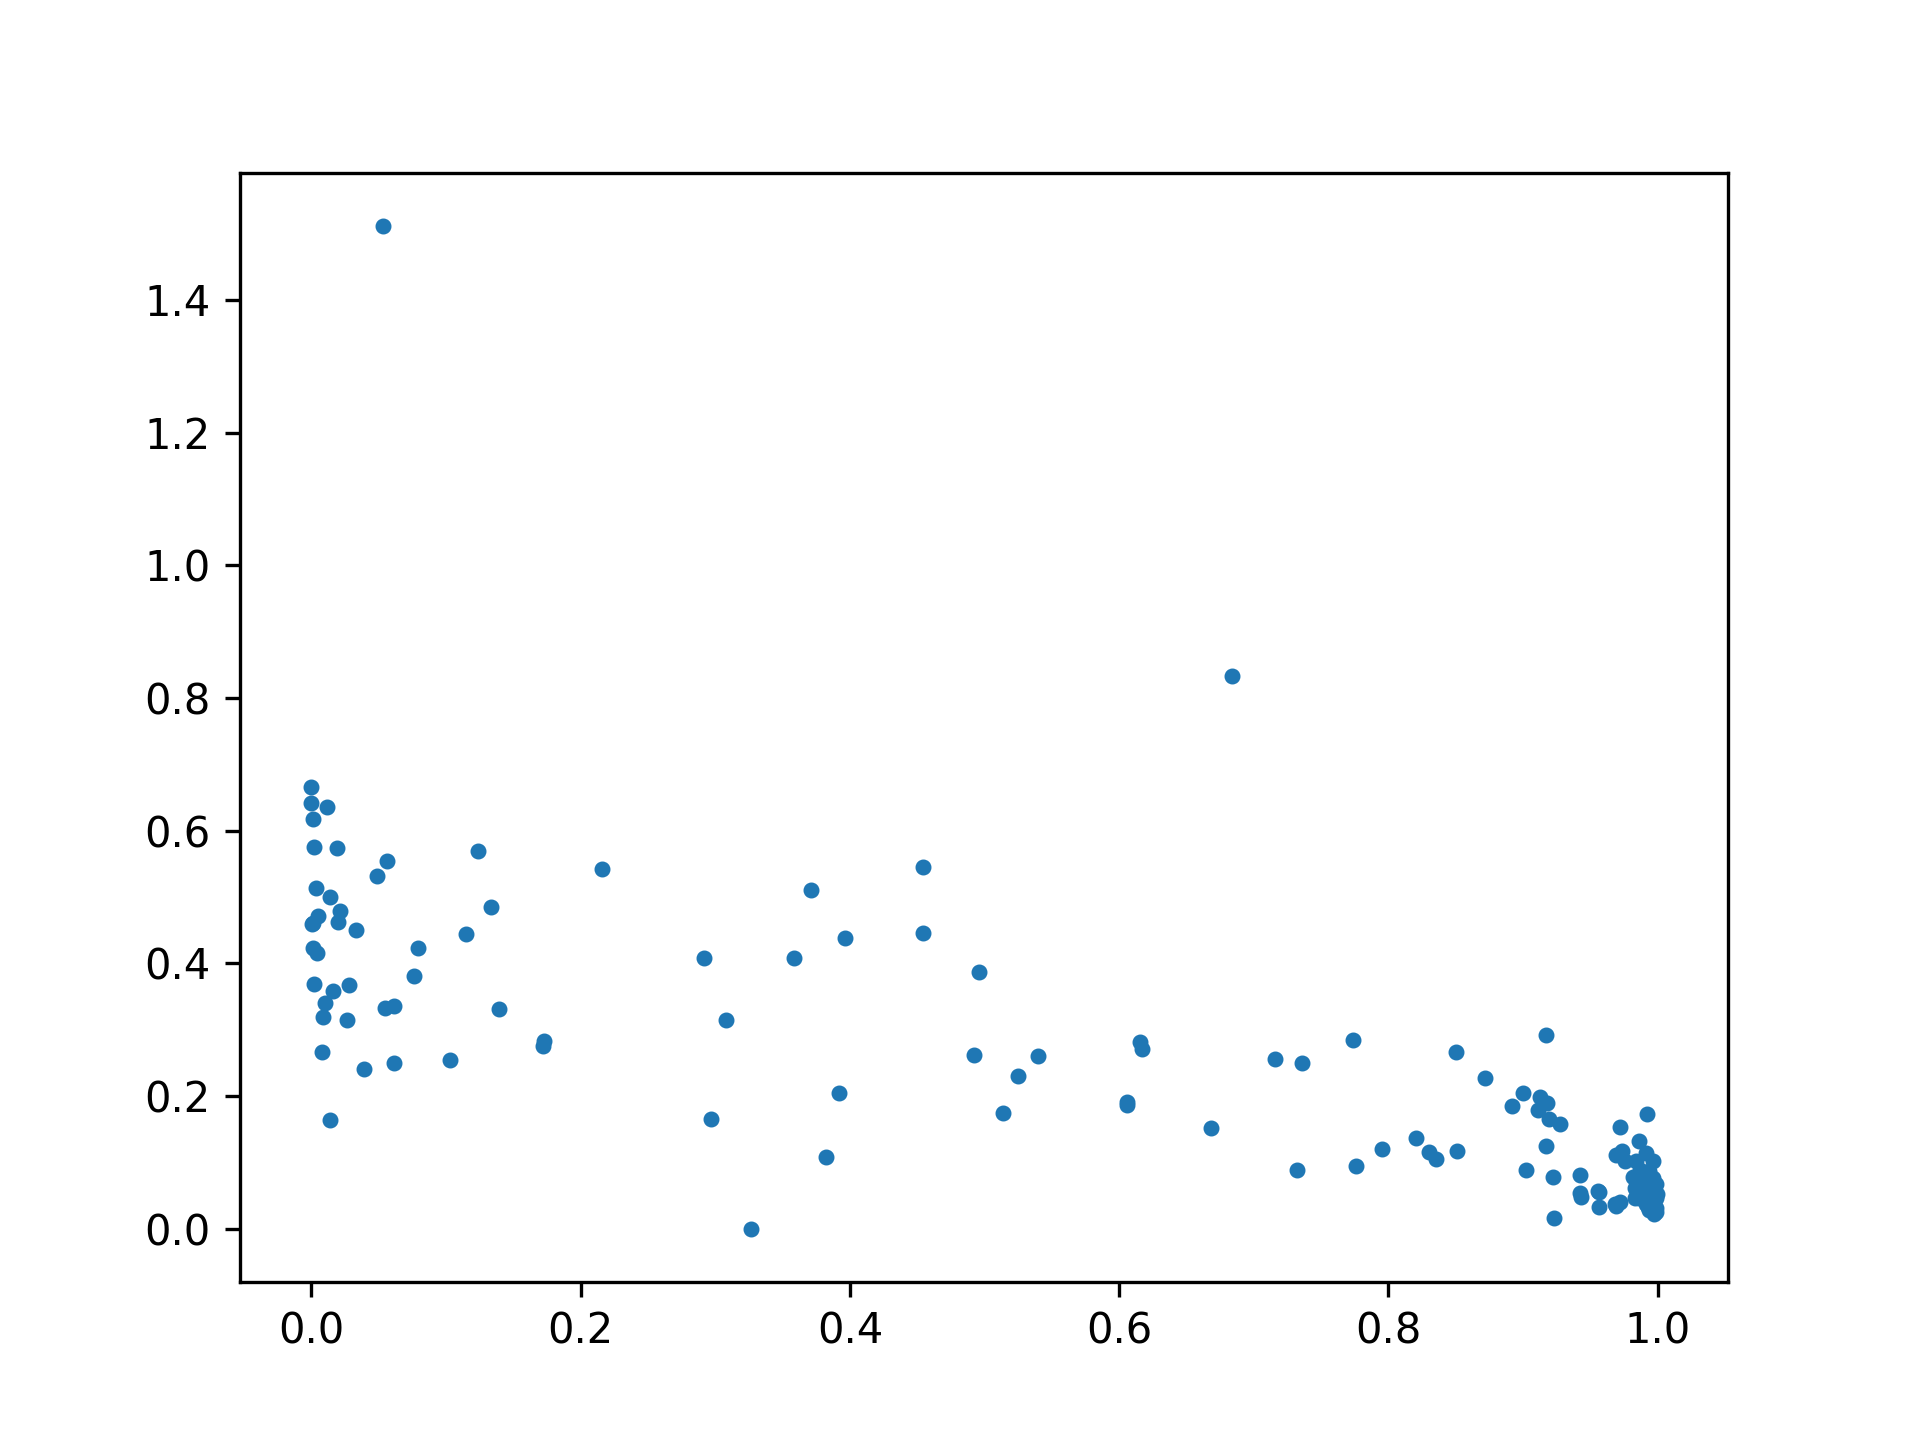
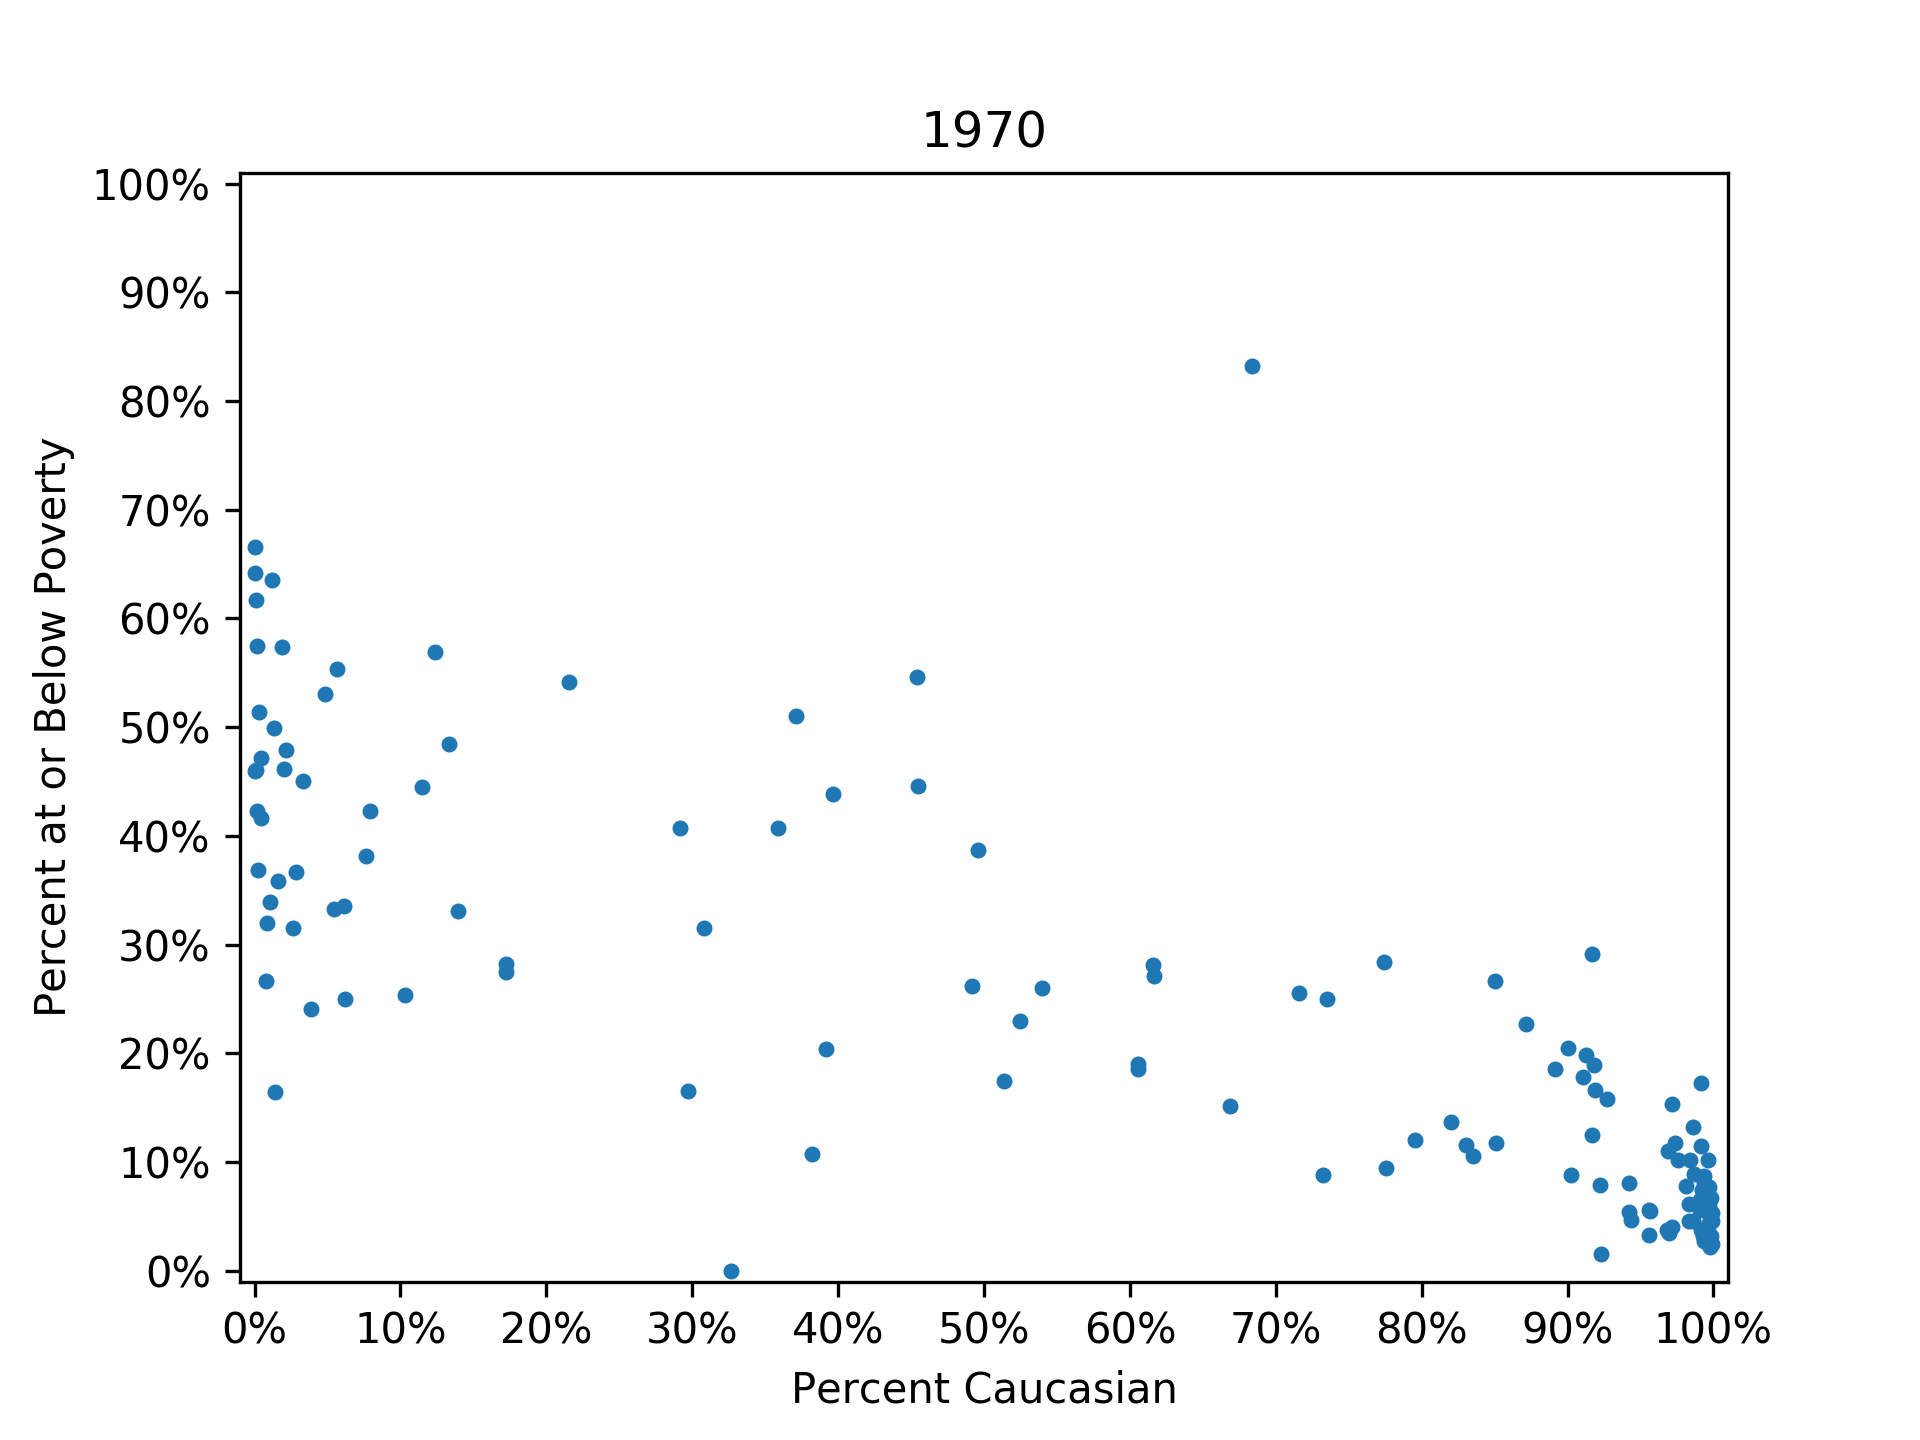
added scatter plot for poverty to caucasian ratios

diff --git a/src/visuals.py b/src/visuals.py
@@ -9,15 +9,23 @@ def poverty():
     df = pd.read_csv("../data/processed/nhgis_estimates.csv")
     years = set([col[-4:] for col in df.columns if col[-4].isnumeric() and col[-4:]!= "2012"])
     for year in sorted(years):
-        cur_df = df[df["gjoin"+year].isnull() == False]
         pov = "pov_" + year if year != "2010" else "pov_2012"
         pop_wh = "r_wh_" + year
         pop_total = "pop_" + year
+        cur_df = df[(df["gjoin"+year].isnull() == False) & 
+                    (df[pov] < df[pop_total])
+                    ]
         cur_df["pct_wh"] = cur_df[pop_wh] / cur_df[pop_total]
-
         y = cur_df[pov] / cur_df["pop_"+year]
         x = [year for i in range(y.shape[0])]
         plt.scatter(cur_df.pct_wh, y, label=year, s=8)
+        tck = list(np.arange(0, 110, 10))
+        tck_label = ["{}%".format(i) for i in tck]
+        plt.yticks(tck,tck_label)
+        plt.xticks(tck, tck_label)
+        plt.xlabel("Percent Caucasian")
+        plt.ylabel("Percent at or Below Poverty")
+        plt.title(year)
         plt.savefig("../output/pov_scatter_"+year+".png", dpi=300)
         plt.close()
         
